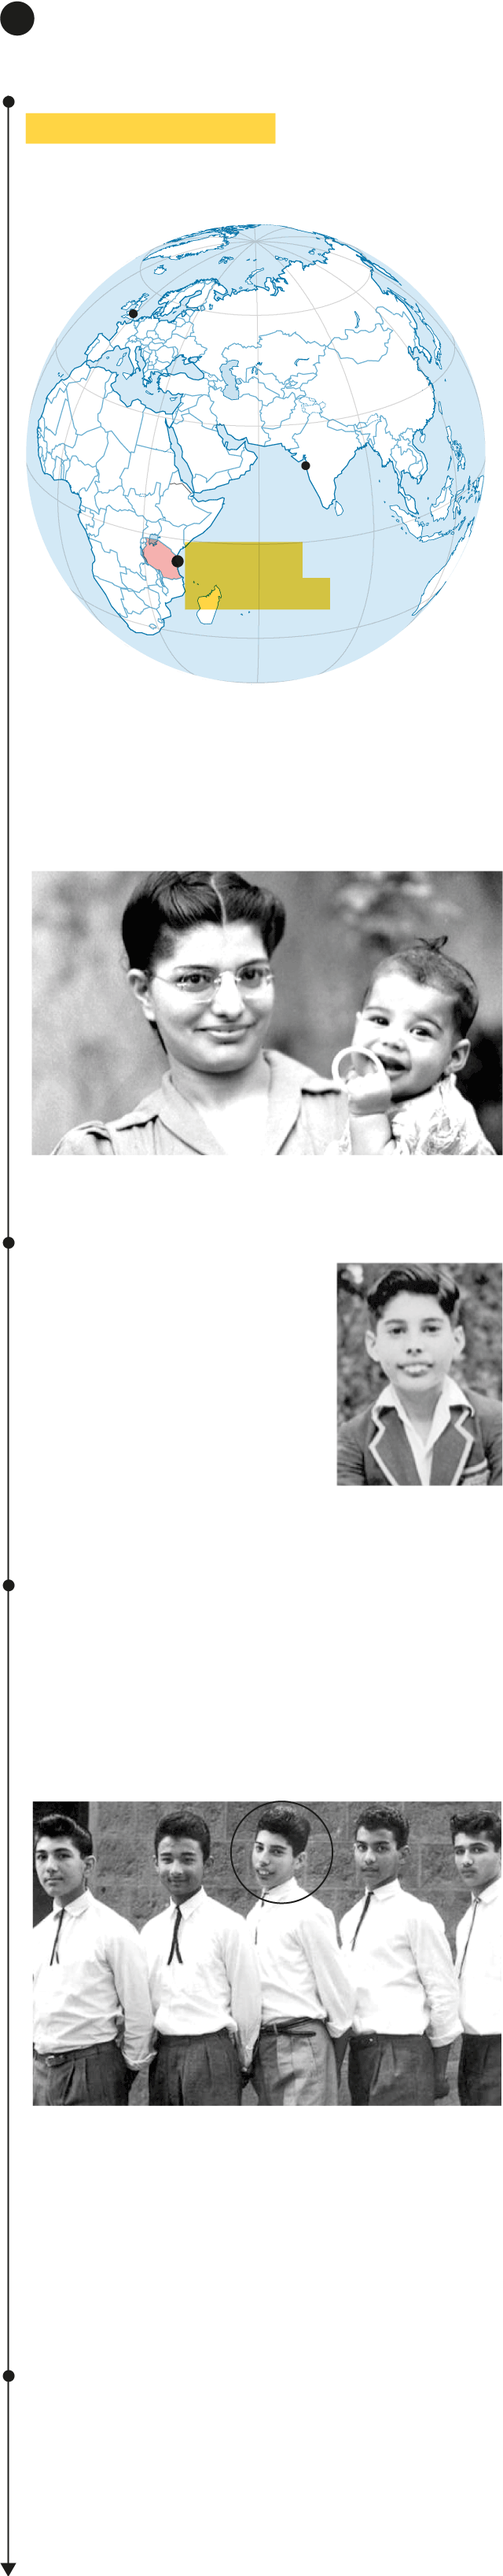
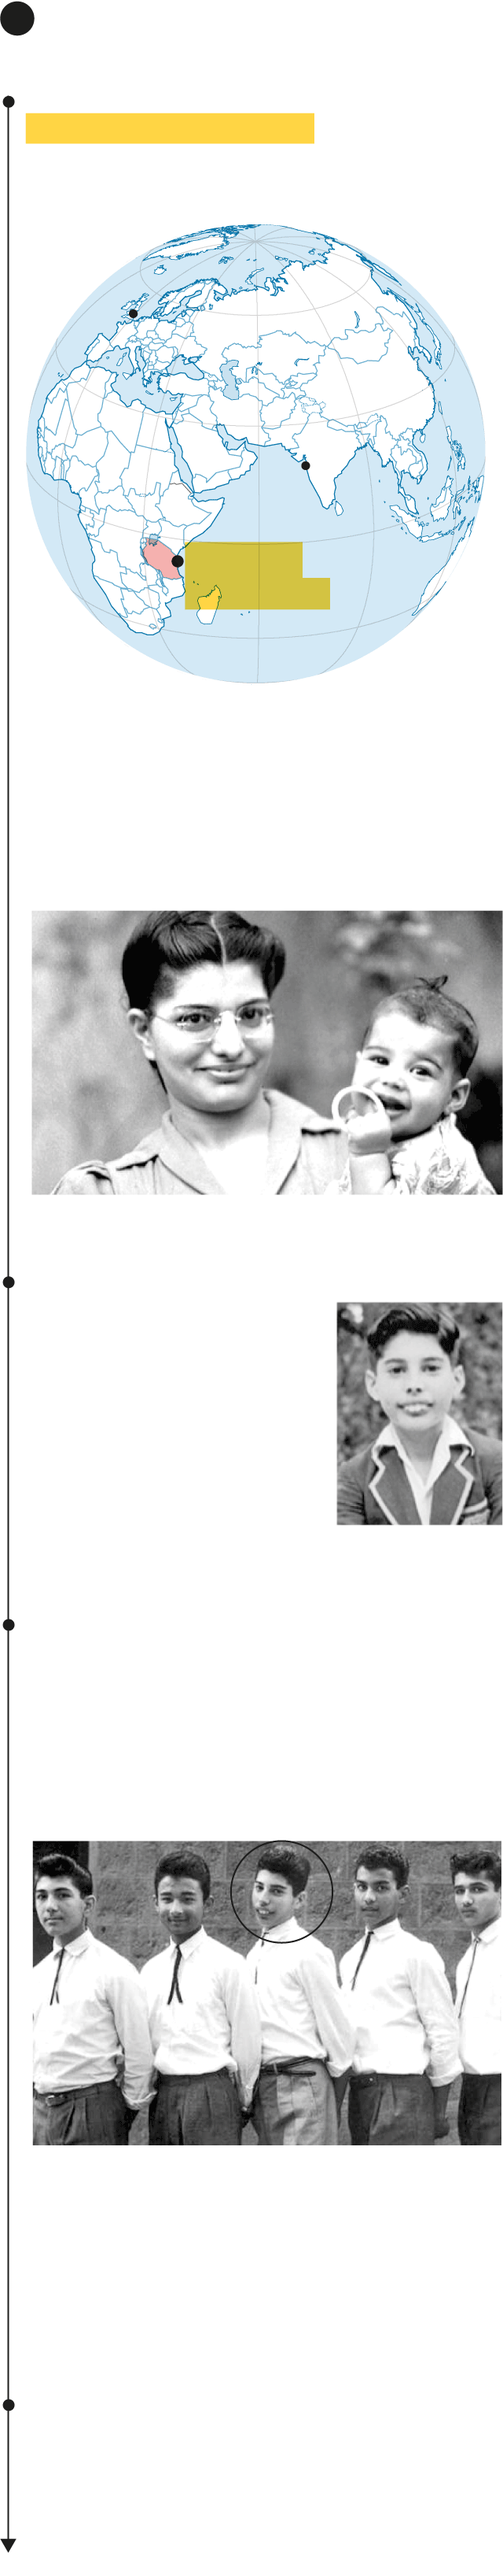
ok

diff --git a/ai2_mobile_mercury-OK-Mesa_de_trabajo_39.html b/ai2_mobile_mercury-OK-Mesa_de_trabajo_39.html
@@ -1,5 +1,5 @@
 
-<!-- Generated by ai2html v0.100.0 - 2021-11-23 12:56 -->
+<!-- Generated by ai2html v0.100.0 - 2021-11-23 13:02 -->
 <!-- ai file: ai2_mobile_mercury OK.ai -->
 <style media="screen,print">
 	#g-ai2_mobile_mercury-OK-Mesa_de_trabajo_39-box ,
@@ -122,27 +122,27 @@
 		<div id="g-ai3-7" class="g-Capa_1 g-aiAbs" style="top:27.5053%;left:6.2324%;width:92.8125%;">
 			<p><span class="g-cstyle0">Los padres de Farrokh</span> son parsis, de religión Zoroastrista, y <span class="g-cstyle0">viven en Bombay (India) pero se mudan a Zanzíbar por trabajo.</span> Allí nace Farrokh y, seis años más tarde, su hermana Kashmira</p>
 		</div>
-		<div id="g-ai3-8" class="g-Capa_1 g-aiAbs g-aiPointText" style="top:45.8299%;margin-top:-9.8px;right:0.327%;width:174px;">
+		<div id="g-ai3-8" class="g-Capa_1 g-aiAbs g-aiPointText" style="top:47.358%;margin-top:-9.8px;right:0.327%;width:174px;">
 			<p class="g-pstyle4">Farrokh y su madre, Jer</p>
 		</div>
-		<div id="g-ai3-9" class="g-Capa_1 g-aiAbs" style="top:47.5536%;left:6.2324%;width:58.125%;">
+		<div id="g-ai3-9" class="g-Capa_1 g-aiAbs" style="top:49.1428%;left:6.2324%;width:58.125%;">
 			<p class="g-pstyle2">Primavera de 1955</p>
 			<p>Con ocho años le internan en un colegio de enseñanza británica cerca de Bombay, hasta los dieciséis años. Las vacaciones las pasa con sus tías, que viven en Bombay, y en pocas casiones ve a sus padres y hermana</p>
 		</div>
-		<div id="g-ai3-10" class="g-Capa_1 g-aiAbs g-aiPointText" style="top:58.5711%;margin-top:-10.3px;right:0.0756%;width:118px;">
+		<div id="g-ai3-10" class="g-Capa_1 g-aiAbs g-aiPointText" style="top:60.0992%;margin-top:-10.3px;right:0.0756%;width:118px;">
 			<p class="g-pstyle5">Farrokh Bulsara</p>
 		</div>
-		<div id="g-ai3-11" class="g-Capa_1 g-aiAbs" style="top:60.8784%;left:6.2324%;width:93.4375%;">
+		<div id="g-ai3-11" class="g-Capa_1 g-aiAbs" style="top:62.4065%;left:6.2324%;width:93.4375%;">
 			<p class="g-pstyle6">1958</p>
 			<p class="g-pstyle7">Con 11 años, Freddie (ya le llaman así en la escuela) forma su primera banda de rock&rsquo;n&rsquo;roll, The Hectics, junto a cuatro amigos. Él toca el piano, ya que recibía clases desde los siete años. También canta en el coro del colegio</p>
 		</div>
-		<div id="g-ai3-12" class="g-Capa_1 g-aiAbs g-aiPointText" style="top:82.5924%;margin-top:-10.3px;right:0.585%;width:248px;">
+		<div id="g-ai3-12" class="g-Capa_1 g-aiAbs g-aiPointText" style="top:84.1205%;margin-top:-10.3px;right:5.1263%;width:248px;">
 			<p class="g-pstyle5">The Hectics, con Freddie en el centro</p>
 		</div>
-		<div id="g-ai3-13" class="g-Capa_1 g-aiAbs" style="top:84.4107%;left:6.2324%;width:92.8125%;">
+		<div id="g-ai3-13" class="g-Capa_1 g-aiAbs" style="top:85.9999%;left:6.2324%;width:92.8125%;">
 			<p class="g-pstyle7">En el colegio destacaba en multitud de facetas: boxeo, tenis de mesa, canto, piano, y también académicamente </p>
 		</div>
-		<div id="g-ai3-14" class="g-Capa_1 g-aiAbs" style="top:91.5621%;left:6.2324%;width:90.9375%;">
+		<div id="g-ai3-14" class="g-Capa_1 g-aiAbs" style="top:92.7234%;left:6.2324%;width:90.9375%;">
 			<p class="g-pstyle2">Primavera de 1963</p>
 			<p>Con 16 años y por motivos sin confirmar, Freddie deja la escuela antes de tiempo y regresa a Zanzíbar para terminar el bachillerato</p>
 		</div>
@@ -150,4 +150,4 @@
 
 </div>
 
-<!-- End ai2html - 2021-11-23 12:56 -->
+<!-- End ai2html - 2021-11-23 13:02 -->
